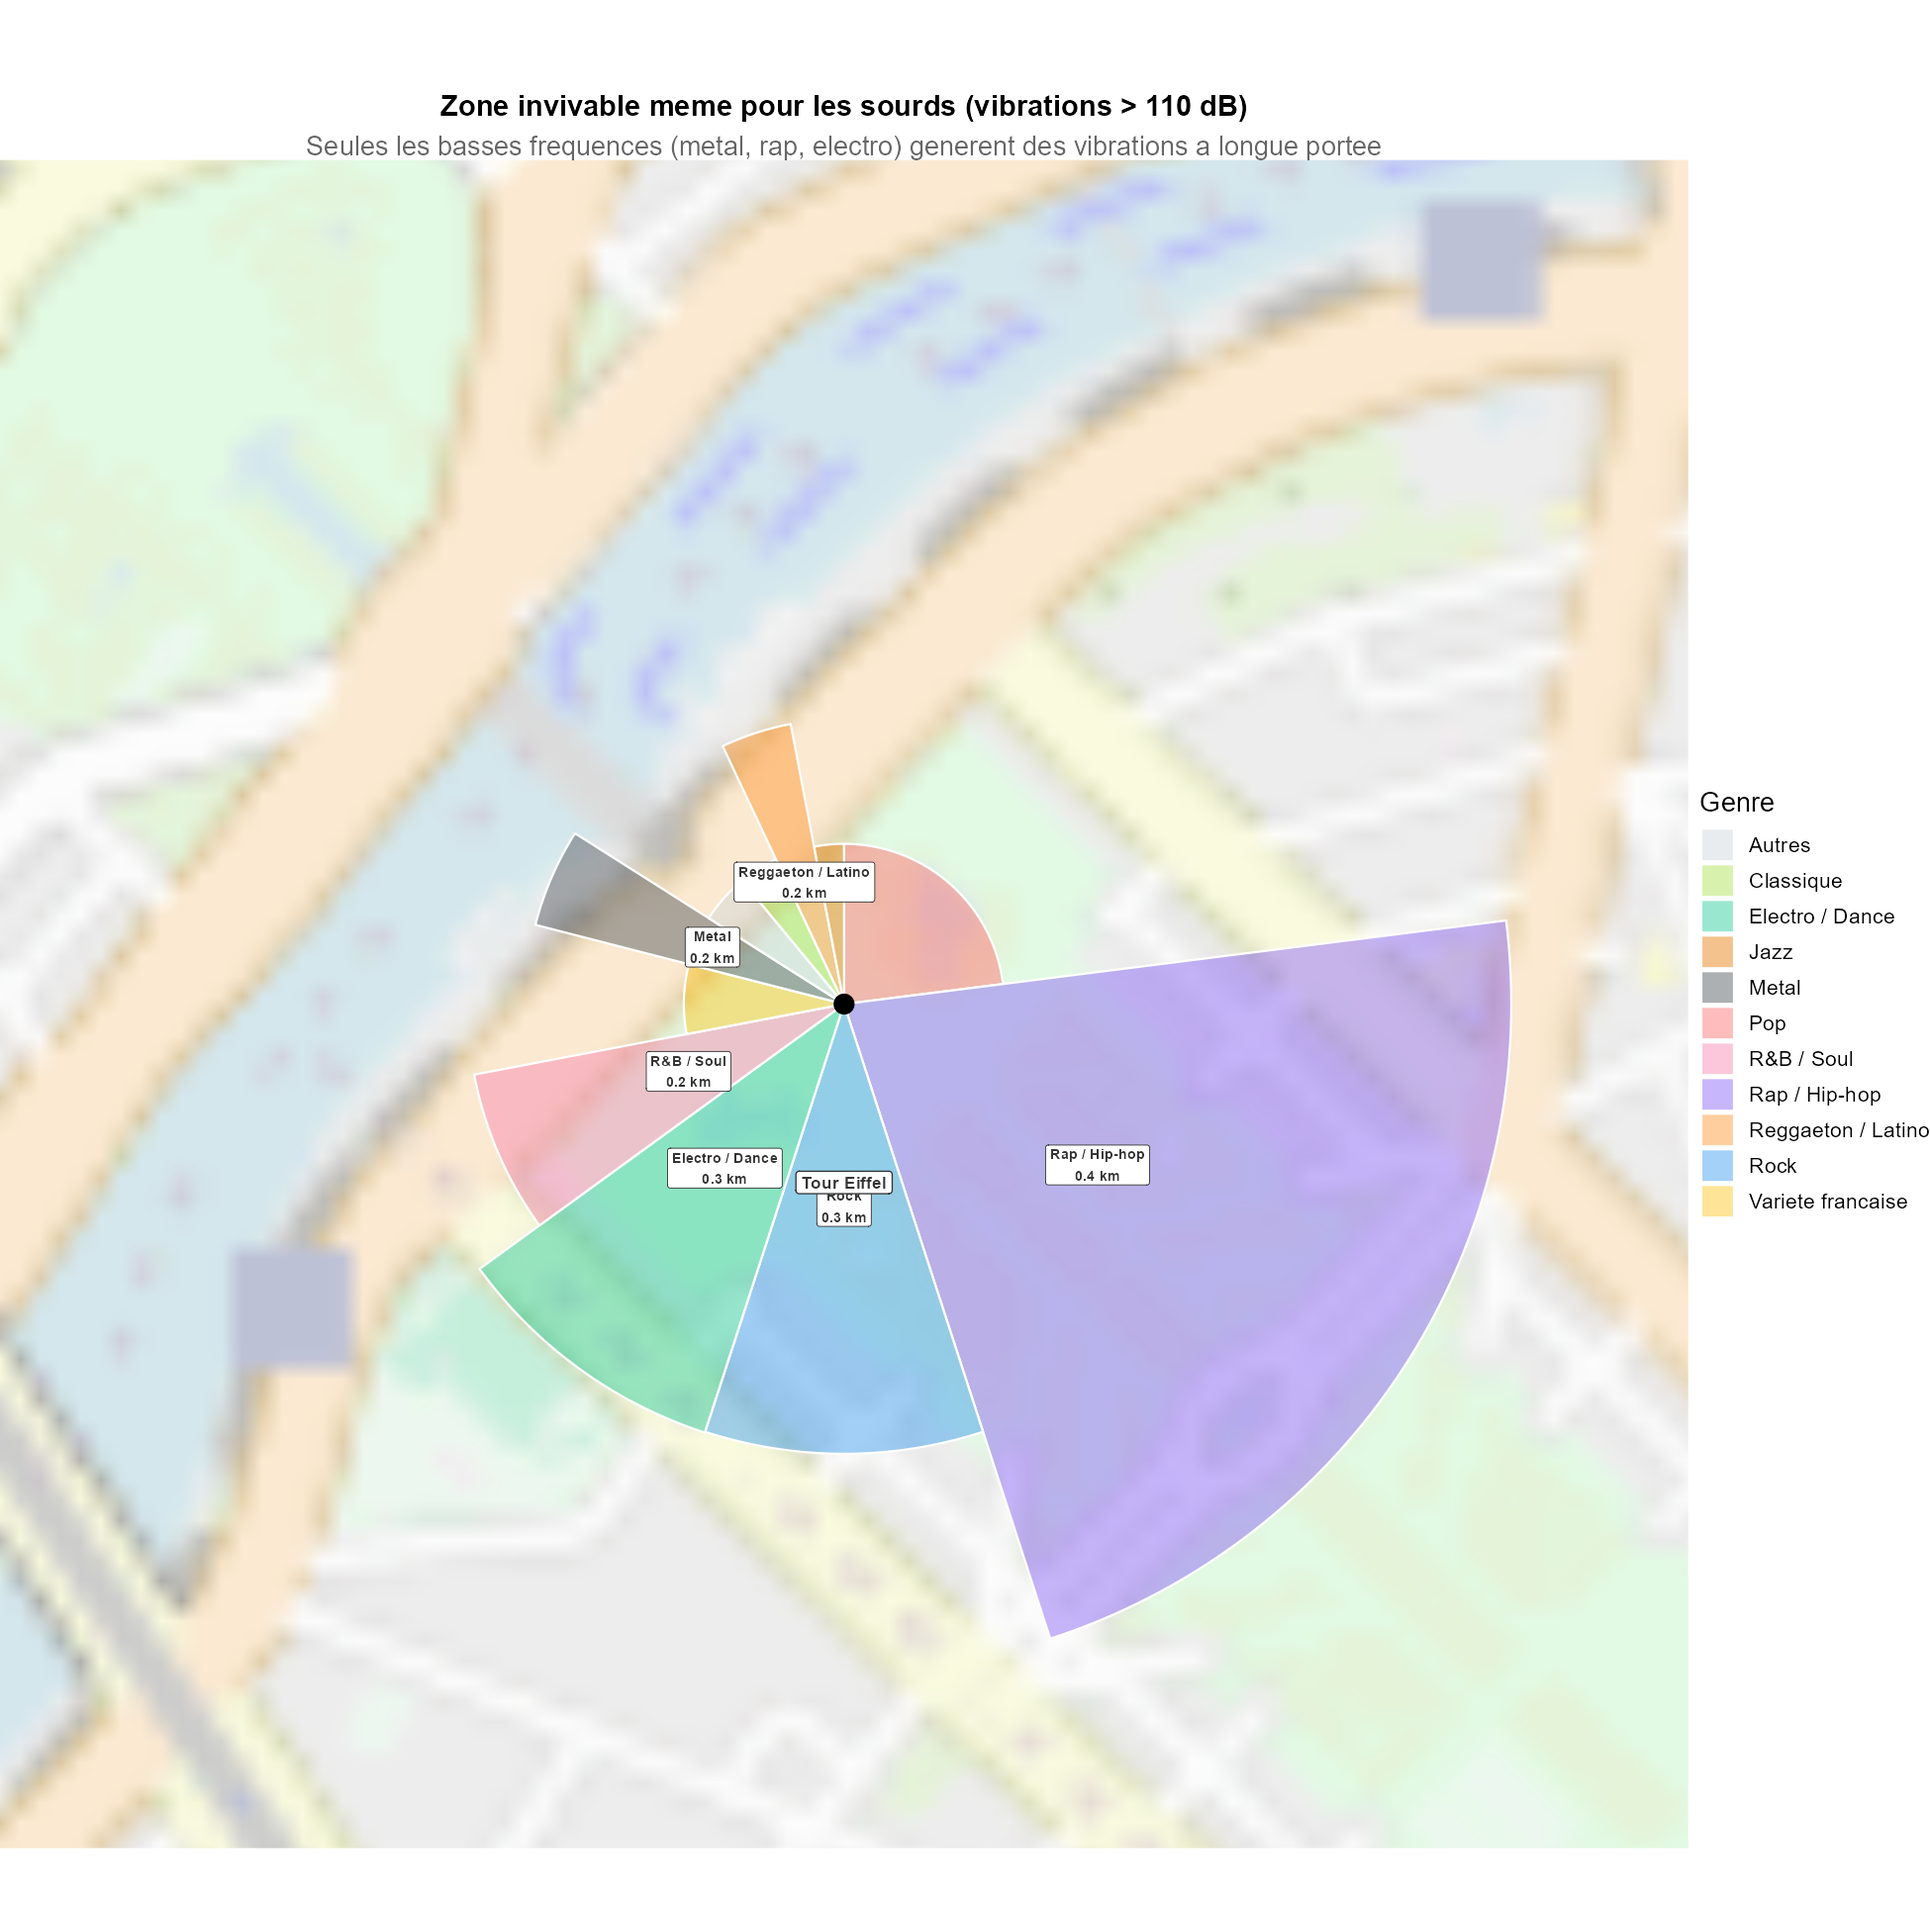
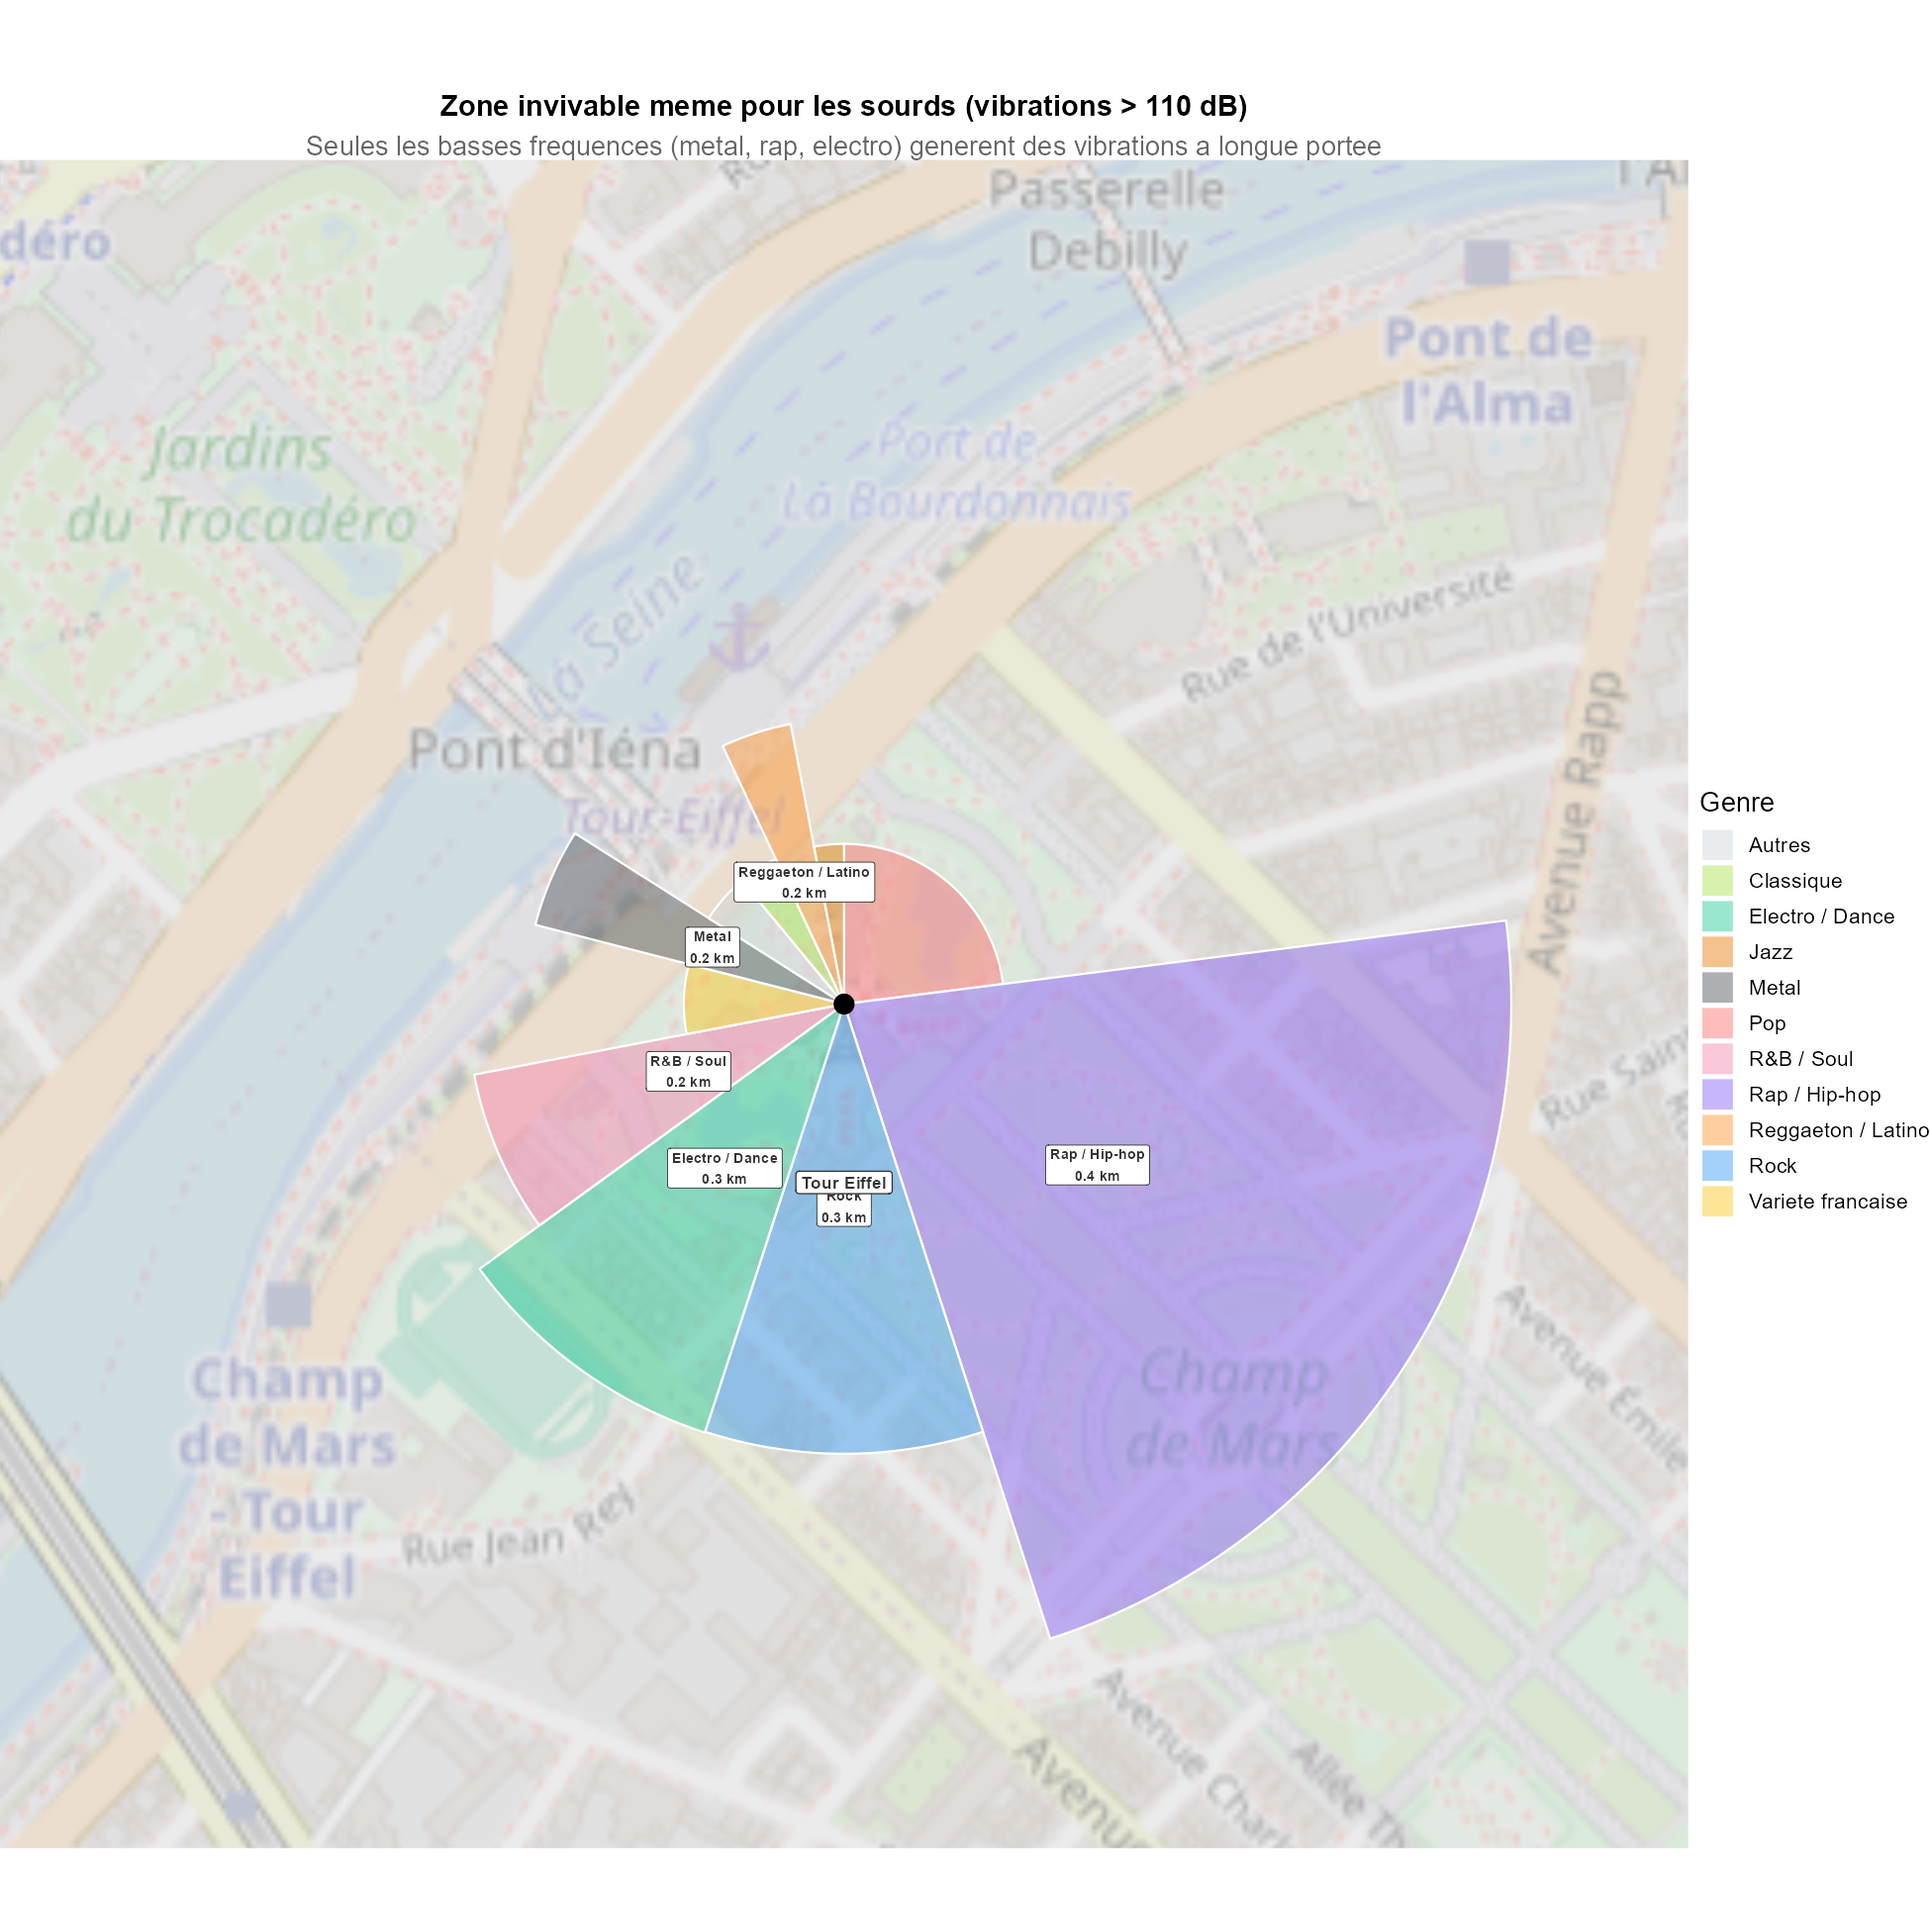
Refactor code structure for improved readability and maintainability

diff --git a/docs/articles/spotify-tour-eiffel/index.html b/docs/articles/spotify-tour-eiffel/index.html
@@ -366,7 +366,14 @@ window.Quarto = {
 <div class="quarto-figure quarto-figure-center">
 <figure class="figure">
 <p><img src="carte_immobilier.png" class="img-fluid figure-img"></p>
-<figcaption>Impact sur les prix immobiliers par arrondissement et commune</figcaption>
+<figcaption>Impact sur les prix immobiliers par arrondissement et commune — Paris</figcaption>
+</figure>
+</div>
+<p>En élargissant la vue à l’Île-de-France, on voit la dépréciation se propager bien au-delà du périphérique. Même des villes comme Melun (45 km), Senlis (45 km) ou Rambouillet (48 km) subissent encore des pertes significatives. Il faut aller jusqu’à Chartres (80 km) ou Beauvais (70 km) pour retrouver des prix presque intacts.</p>
+<div class="quarto-figure quarto-figure-center">
+<figure class="figure">
+<p><img src="carte_immobilier_idf.png" class="img-fluid figure-img"></p>
+<figcaption>Impact sur les prix immobiliers — vue Île-de-France</figcaption>
 </figure>
 </div>
 <hr>

diff --git a/docs/articles/index.html b/docs/articles/index.html
@@ -212,7 +212,7 @@ window.Quarto = {
     </div>
 </div>
 <div class="list grid quarto-listing-cols-2">
[2 lines of base64/hex data omitted]
 <a href="../articles/spotify-tour-eiffel/index.html" class="quarto-grid-link">
 <div class="quarto-grid-item card h-100 card-left">
 <div class="card-body post-contents">

diff --git a/docs/index.html b/docs/index.html
@@ -212,7 +212,7 @@ window.Quarto = {
     </div>
 </div>
 <div class="list grid quarto-listing-cols-2">
[2 lines of base64/hex data omitted]
 <a href="./articles/spotify-tour-eiffel/index.html" class="quarto-grid-link">
 <div class="quarto-grid-item card h-100 card-left">
 <div class="card-body post-contents">
